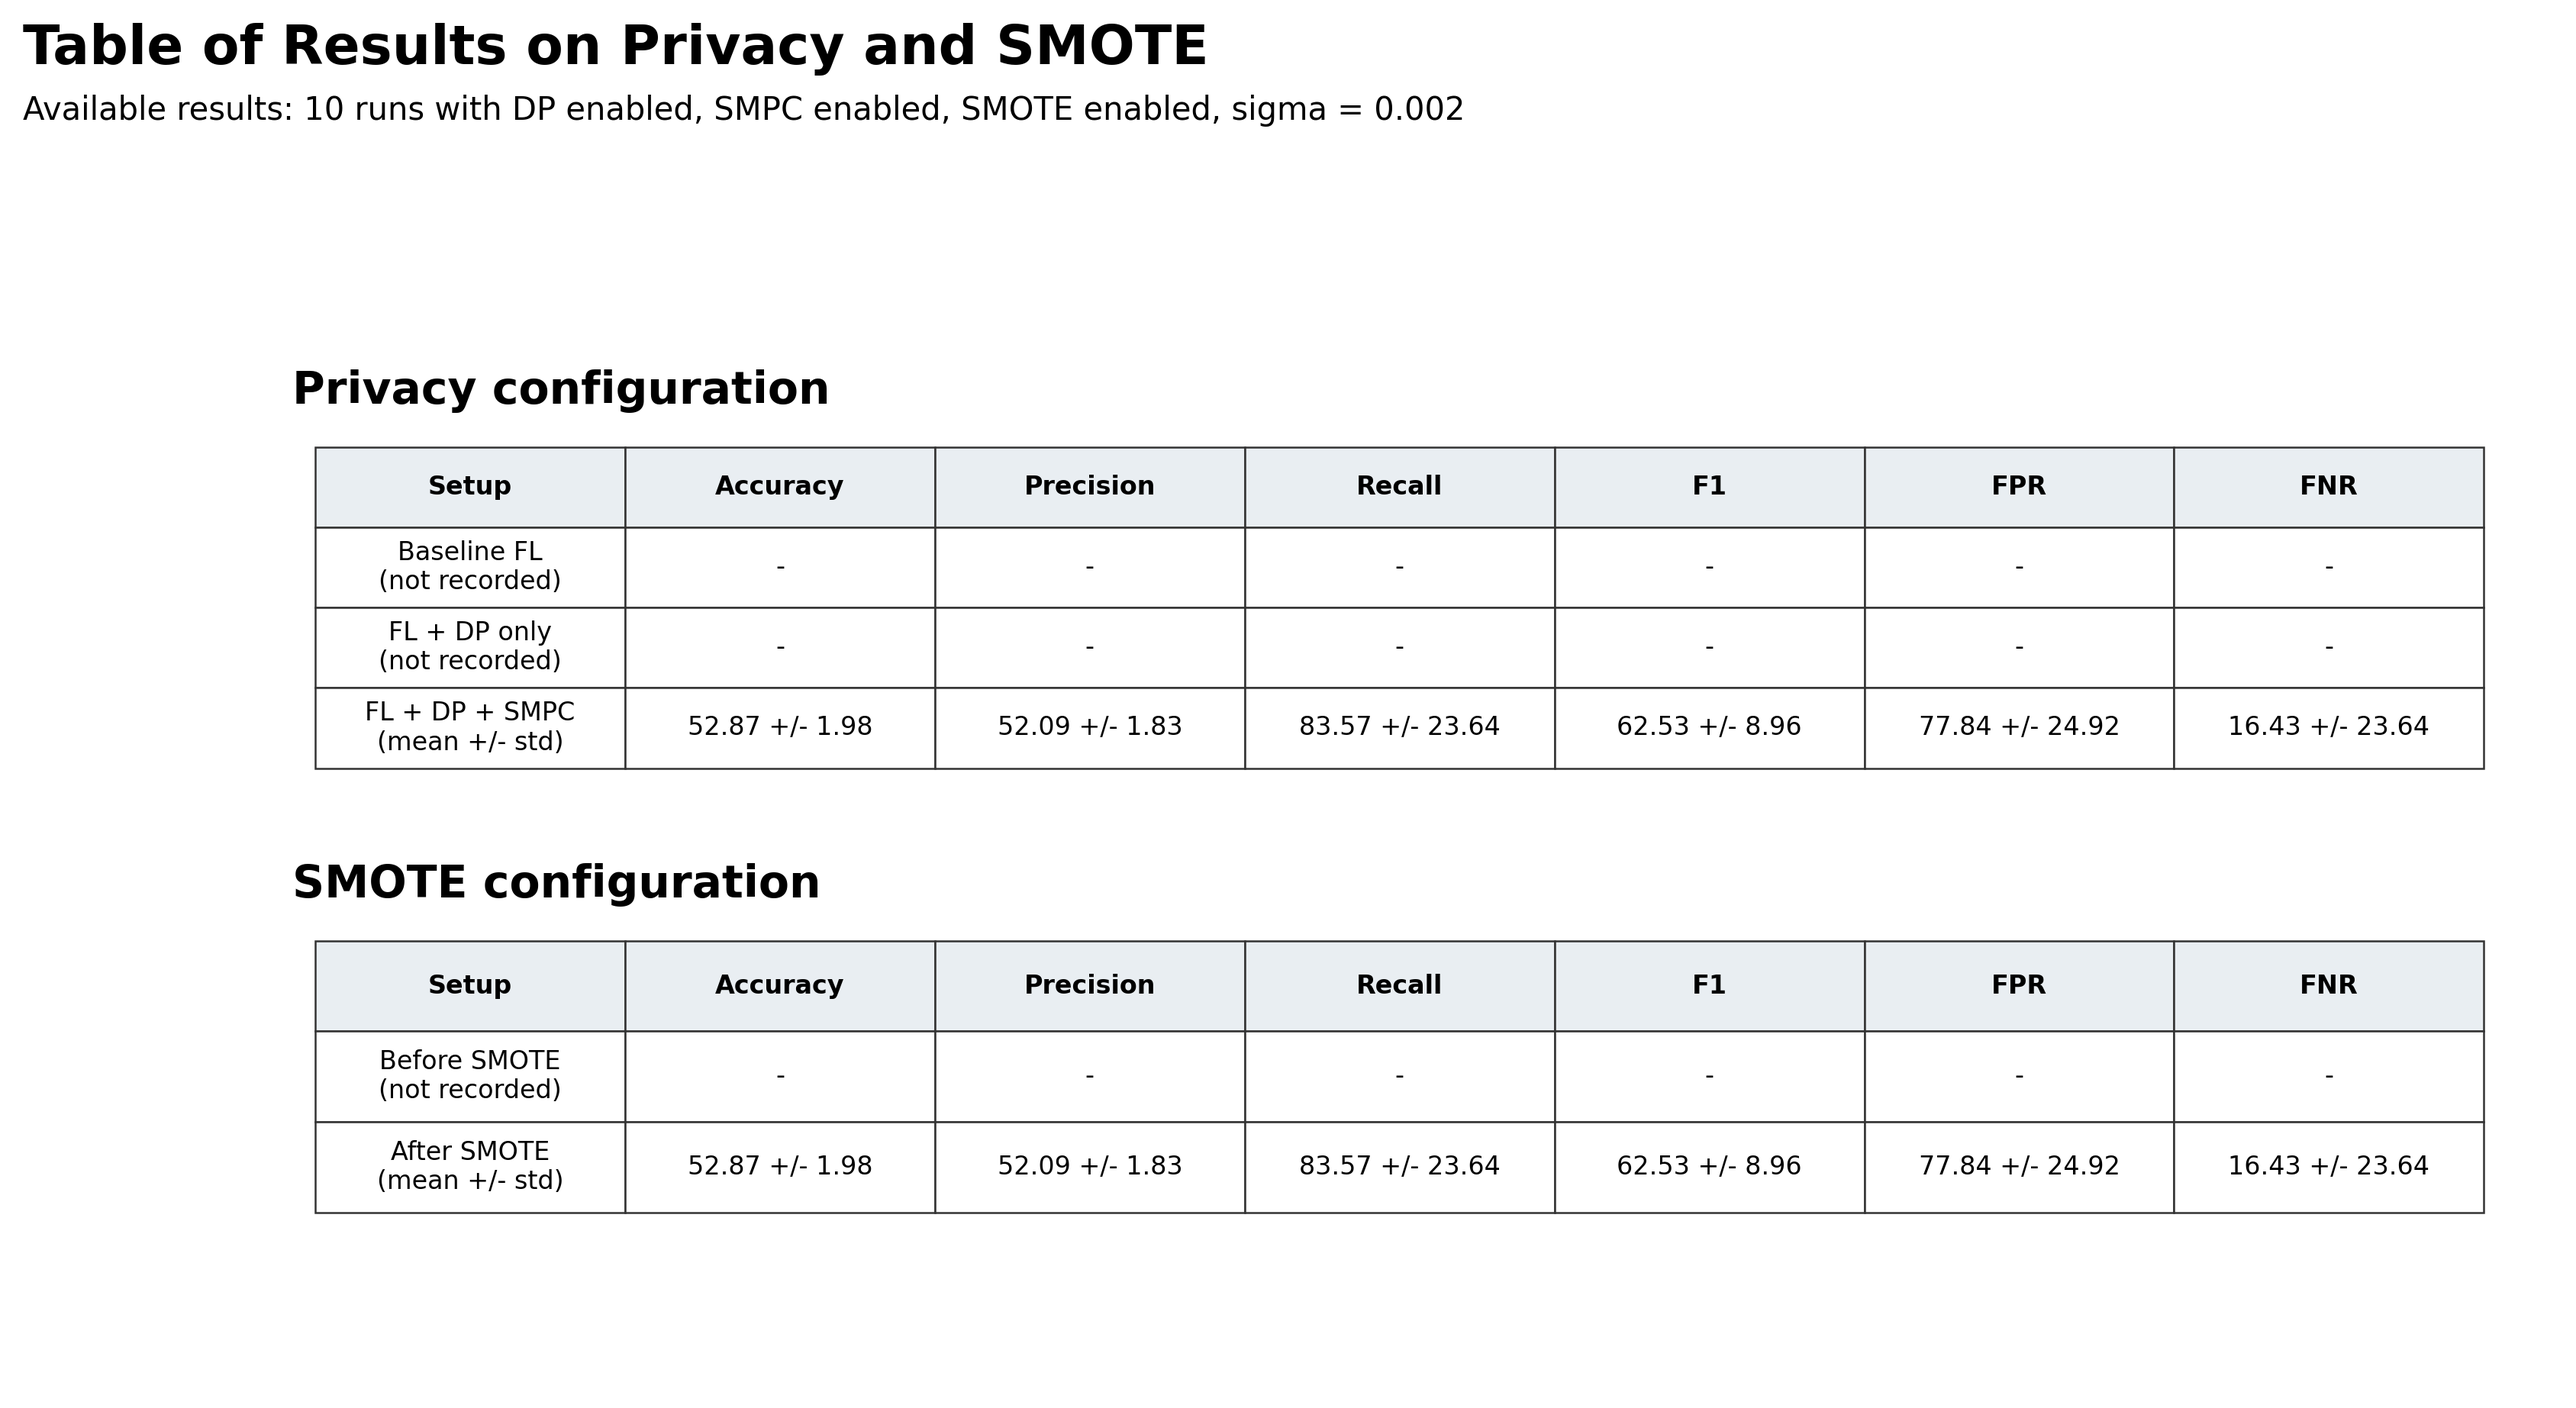
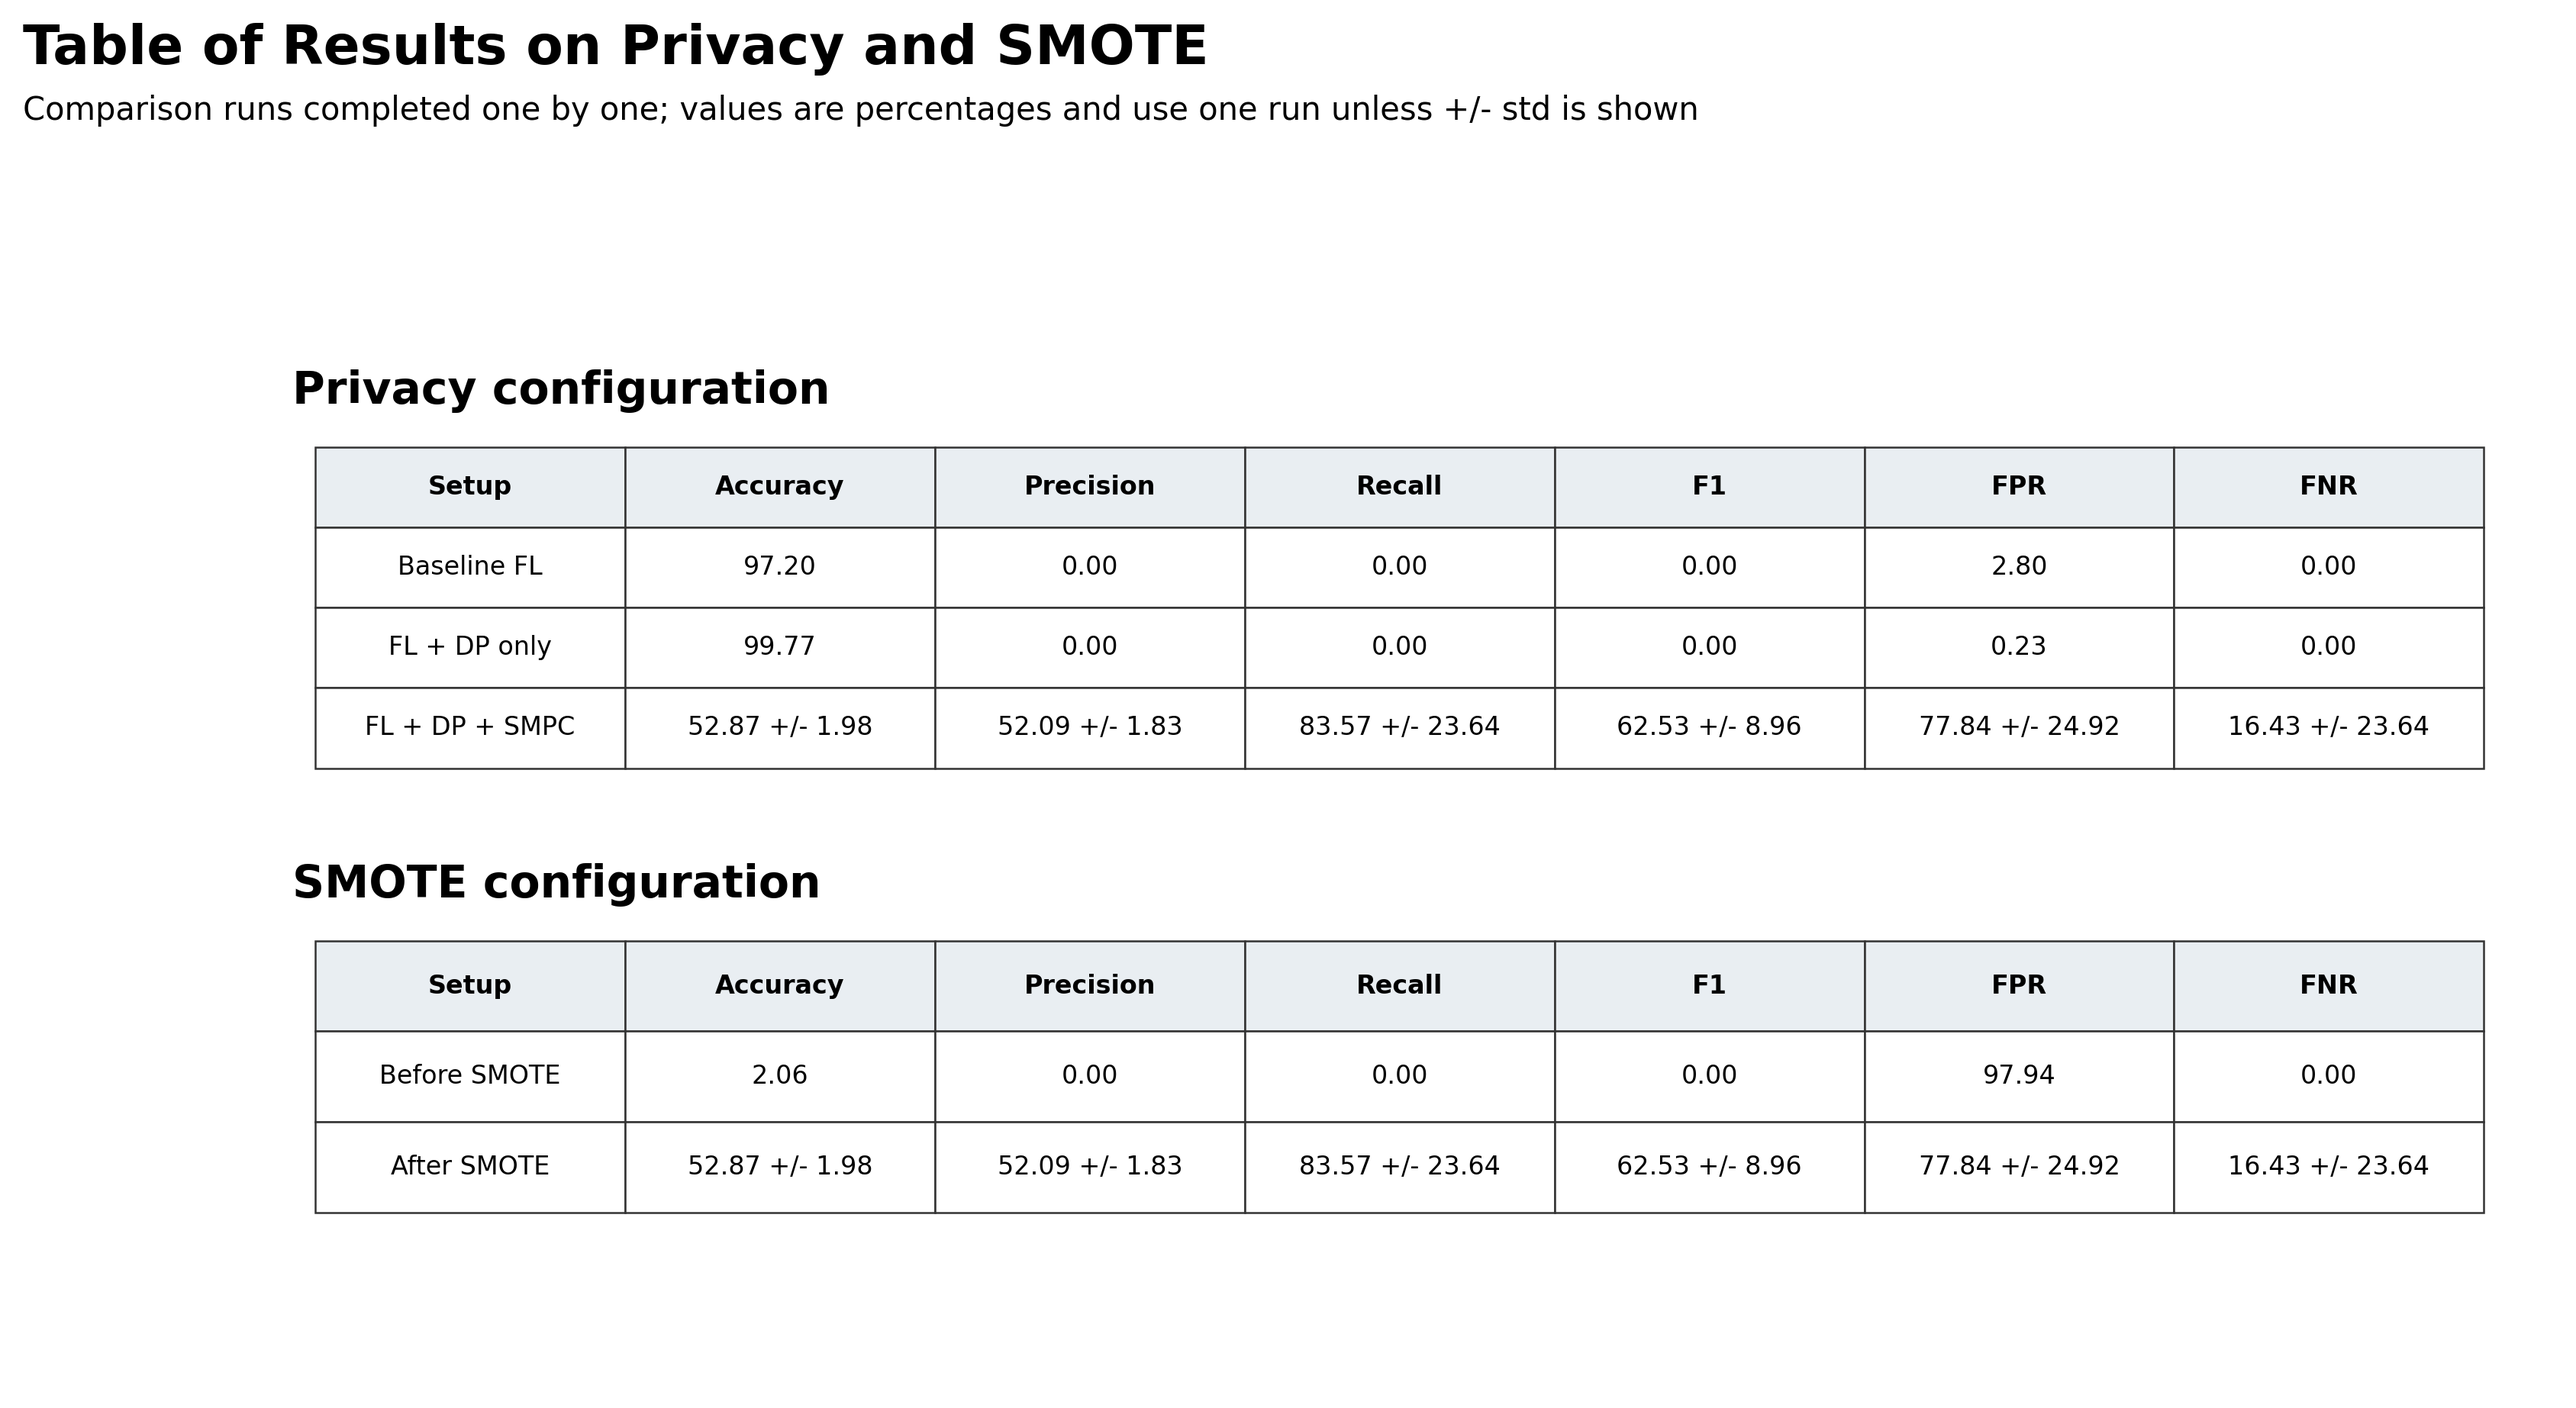
Fill privacy and SMOTE comparison results

diff --git a/tools/generate_privacy_smote_table.py b/tools/generate_privacy_smote_table.py
@@ -6,11 +6,14 @@ import pandas as pd
 
 ROOT = Path(__file__).resolve().parents[1]
 SUMMARY_PATH = ROOT / "results" / "experiment_summary.csv"
+COMPARISON_DIR = ROOT / "results" / "experiments" / "comparisons"
 OUTPUT_PATH = ROOT / "results" / "global" / "privacy_smote_results.png"
 
 
 def format_metric(summary, metric):
     row = summary.loc[summary["Metric"] == metric].iloc[0]
+    if pd.isna(row["Std"]):
+        return f"{row['Mean']:.2f}"
     return f"{row['Mean']:.2f} +/- {row['Std']:.2f}"
 
 
@@ -37,9 +40,30 @@ def add_table(axis, title, columns, rows, bbox):
 
 
 def generate_table():
-    summary = pd.read_csv(SUMMARY_PATH)
     metrics = ["Accuracy", "Precision", "Recall", "F1", "FPR", "FNR"]
-    available = [format_metric(summary, metric) for metric in metrics]
+    result_files = {
+        "baseline": COMPARISON_DIR / "baseline_smote.csv",
+        "dp_only": COMPARISON_DIR / "dp_only_smote.csv",
+        "dp_smpc_smote": SUMMARY_PATH,
+        "dp_smpc_no_smote": COMPARISON_DIR / "dp_smpc_no_smote.csv",
+    }
+
+    summaries = {}
+    for name, path in result_files.items():
+        data = pd.read_csv(path)
+        if "Metric" in data.columns:
+            summaries[name] = data
+        else:
+            summaries[name] = pd.DataFrame({
+                "Metric": ["Accuracy", "Precision", "Recall", "Specificity", "F1", "FPR", "FNR"],
+                "Mean": [data[column].mean() for column in ["Accuracy", "Precision", "Recall", "Specificity", "F1", "FPR", "FNR"]],
+                "Std": [data[column].std() for column in ["Accuracy", "Precision", "Recall", "Specificity", "F1", "FPR", "FNR"]],
+            })
+
+    values = {
+        name: [format_metric(summary, metric) for metric in metrics]
+        for name, summary in summaries.items()
+    }
 
     figure, axis = plt.subplots(figsize=(13, 7))
     axis.axis("off")
@@ -55,7 +79,7 @@ def generate_table():
     figure.text(
         0.05,
         0.915,
-        "Available results: 10 runs with DP enabled, SMPC enabled, SMOTE enabled, sigma = 0.002",
+        "Comparison runs completed one by one; values are percentages and use one run unless +/- std is shown",
         ha="left",
         va="top",
         fontsize=10,
@@ -66,9 +90,9 @@ def generate_table():
         "Privacy configuration",
         ["Setup", "Accuracy", "Precision", "Recall", "F1", "FPR", "FNR"],
         [
-            ["Baseline FL\n(not recorded)", "-", "-", "-", "-", "-", "-"],
-            ["FL + DP only\n(not recorded)", "-", "-", "-", "-", "-", "-"],
-            ["FL + DP + SMPC\n(mean +/- std)", *available],
+            ["Baseline FL", *values["baseline"]],
+            ["FL + DP only", *values["dp_only"]],
+            ["FL + DP + SMPC", *values["dp_smpc_smote"]],
         ],
         [0.03, 0.50, 0.94, 0.26],
     )
@@ -78,8 +102,8 @@ def generate_table():
         "SMOTE configuration",
         ["Setup", "Accuracy", "Precision", "Recall", "F1", "FPR", "FNR"],
         [
-            ["Before SMOTE\n(not recorded)", "-", "-", "-", "-", "-", "-"],
-            ["After SMOTE\n(mean +/- std)", *available],
+            ["Before SMOTE", *values["dp_smpc_no_smote"]],
+            ["After SMOTE", *values["dp_smpc_smote"]],
         ],
         [0.03, 0.14, 0.94, 0.22],
     )

diff --git a/client/client_app.py b/client/client_app.py
@@ -31,9 +31,15 @@ from sklearn.model_selection import train_test_split
 from sklearn.metrics import accuracy_score, precision_score, recall_score, f1_score
 
 
-USE_DP = True
-USE_SMPC = True
-USE_SMOTE = True
+def env_flag(name, default):
+    value = os.getenv(name)
+    return default if value is None else value.lower() in {"1", "true", "yes"}
+
+
+USE_DP = env_flag("MWAKATOBE_USE_DP", True)
+USE_SMPC = env_flag("MWAKATOBE_USE_SMPC", True)
+USE_SMOTE = env_flag("MWAKATOBE_USE_SMOTE", True)
+RESULTS_ONLY = env_flag("MWAKATOBE_RESULTS_ONLY", False)
 
 # experiment parameter
 DP_SIGMA = 0.002  # noise scale for differential privacy
@@ -72,7 +78,7 @@ HOSPITAL_PREDICTIONS = {}
 # MULTIPLE EXPERIMENT SUPPORT
 # =====================================================
 
-NUM_RUNS = 10
+NUM_RUNS = int(os.getenv("MWAKATOBE_NUM_RUNS", "10"))
 
 EXPERIMENT_RESULTS = []
 
@@ -919,6 +925,8 @@ def start_flower_client(csv_path, class_to_index):
 # -------------------------------
 @atexit.register
 def generate_confusion_matrix_images():
+    if RESULTS_ONLY:
+        return
 
     cm_dir = Path(
         "results/confusion_matrices"
@@ -1067,16 +1075,18 @@ def finalize():
         v["test"] for v in HOSPITAL_STATS.values()
     ), "❌ Sample count mismatch – evaluation bug detected"
 
-    plot_dataset_sizes_by_hospital()
-    plot_federated_weights()
-    plot_sample_distribution()
-    plot_contribution_matrix()
-    plot_epoch_accuracy_per_hospital()
-    plot_epoch_loss_per_hospital()
+    if not RESULTS_ONLY:
+        plot_dataset_sizes_by_hospital()
+        plot_federated_weights()
+        plot_sample_distribution()
+        plot_contribution_matrix()
+        plot_epoch_accuracy_per_hospital()
+        plot_epoch_loss_per_hospital()
     print_hospital_summary()
     print_global_summary()
     save_experiment_results()
-    plot_experiment_comparison()
+    if not RESULTS_ONLY:
+        plot_experiment_comparison()
 
     # ================================
     # FINAL CHRONOLOGICAL TRAINING LOG

diff --git a/README.md b/README.md
@@ -688,7 +688,7 @@ The missing-value table is generated from all processed hospital records with `t
 
 ![Privacy and SMOTE results](results/global/privacy_smote_results.png)
 
-The privacy and SMOTE results table is generated from the recorded experiment summary with `tools/generate_privacy_smote_table.py`. Baseline, DP-only, and before-SMOTE metrics are marked as not recorded because those comparison runs are not present in the repository.
+The privacy and SMOTE results table is generated from the recorded experiment summaries with `tools/generate_privacy_smote_table.py`. The comparison configurations were run one by one in isolated copies, so the existing project graphs were not regenerated.
 
 ### Hospital-level confusion matrices
 
